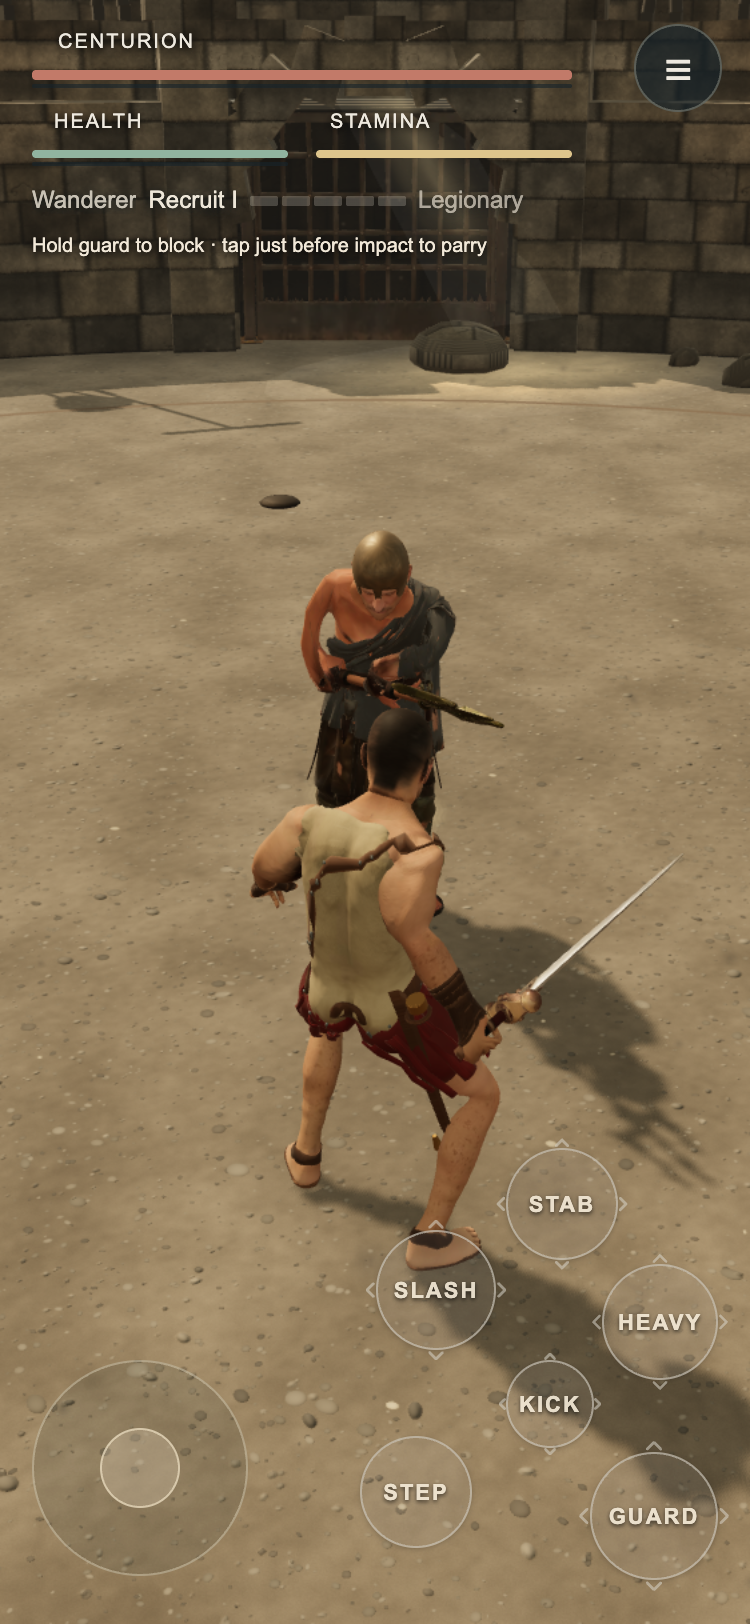
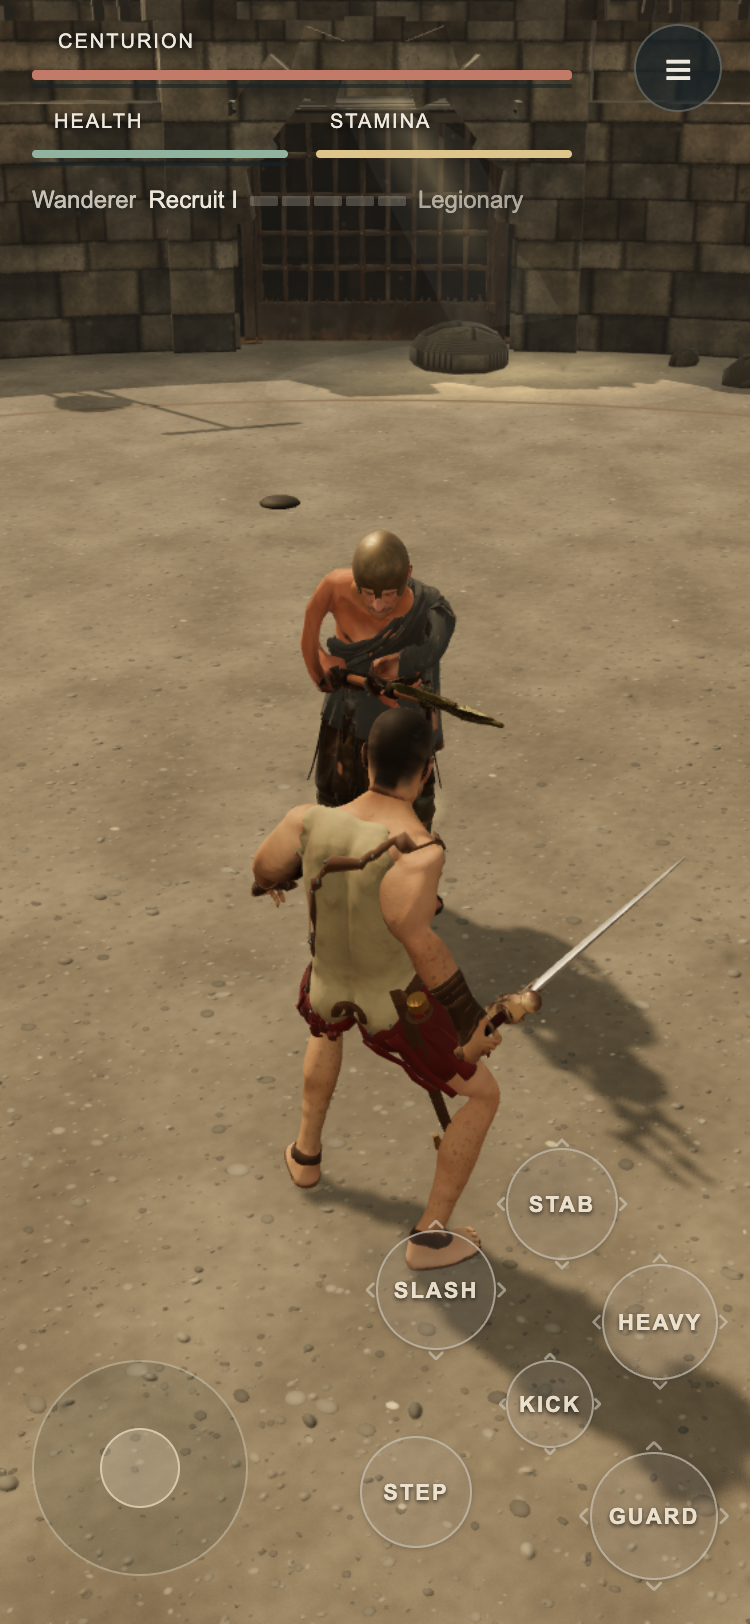
evidence: re-taken HUD stills (blank line) + Witch charge/break/line strip, PR #676 @ fa4a3d38

diff --git a/README.md b/README.md
@@ -1,10 +1,20 @@
 # Fight HUD evidence — PR #676 (web lane, 2026-09-24)
 
-375×812, deviceScaleFactor 2, real GPU (--use-angle=metal), vite dev server on the PR's tree, Veteran, harness clock.
+375×812, deviceScaleFactor 2, real GPU (--use-angle=metal), vite dev server on the PR head (fa4a3d38), harness clock.
 
-- `hud-375x812.png` — THE still: the permanent rank row with the name ("Wanderer  Recruit I ▭▭▭▭▭ Legionary") under the meters,
-  and the small white event line under it ("Counter right cut hit · −18"). No red banner.
-- `hud-threat-375x812.png` — a frame with the Veteran's threat flag up (`data-threat=true`): no banner, no "Incoming strike" text,
-  the line reads the standing guard hint; background rgba(0,0,0,0).
-
+## HUD stills (Veteran), re-taken on the final head
+- `hud-375x812.png` — the rank row with the name ("Wanderer  Recruit I ▭▭▭▭▭ Legionary") under the meters, the white event line
+  under it ("Counter right cut hit · −18"). No red banner.
+- `hud-threat-375x812.png` — `data-threat=true`: the line is BLANK (''), background rgba(0,0,0,0), box 16,116 240×14 kept
+  (min-height 1.4em, nothing below moves). No banner, no "Incoming strike", no idle hint.
 Probe: rank row 16,93 240×14 · name 16,93 52×14 · event line 16,116 240×14 · scrollWidth 375 · page errors none.
+
+## Witch strip: charge → guard break → line
+Player holds an overhead guard (Q + ArrowUp). Events: AttackStarted(heavy_overhead) → Charging → Charged → GuardBroken{charged:true}.
+- `witch-1-windup.png` — 100 ms after her Charged event. **The wind-up does not read as a charge without text**: the trident is
+  up behind her, mostly hidden by the player's body and blade, and nothing distinguishes it from an ordinary heavy. The line
+  shows "Guarding · release to recover stamina" (to be trimmed to "Guarding" in the strings-only follow-up).
+- `witch-2-break.png` — the GuardBroken frame: "Guard broken: a charged heavy breaks guard." · WOUND on the stamina label.
+- `witch-3-line.png` — 250 ms later, the line holds.
+Sound during the charge: the `charge` sprite cue on the Charged event (src/audio/cues.ts:56, gain 0.1, room 0.4; synth fallback
+131+196 Hz, 0.3 s in src/feedback.ts). It fires on either fighter's Charged.
